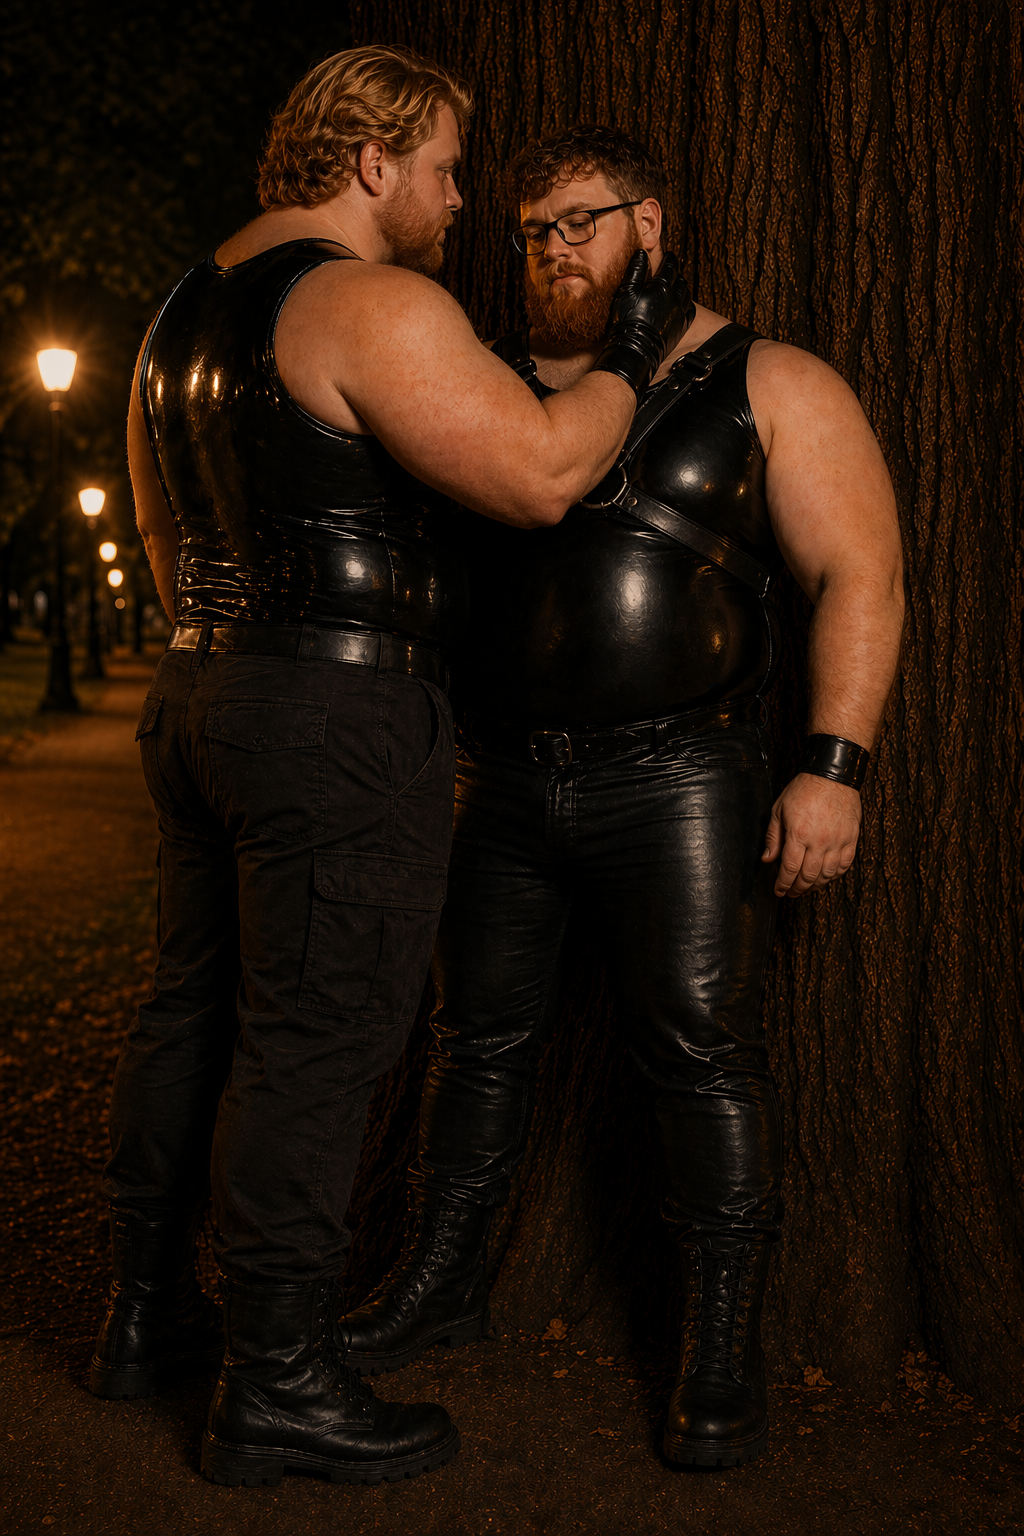
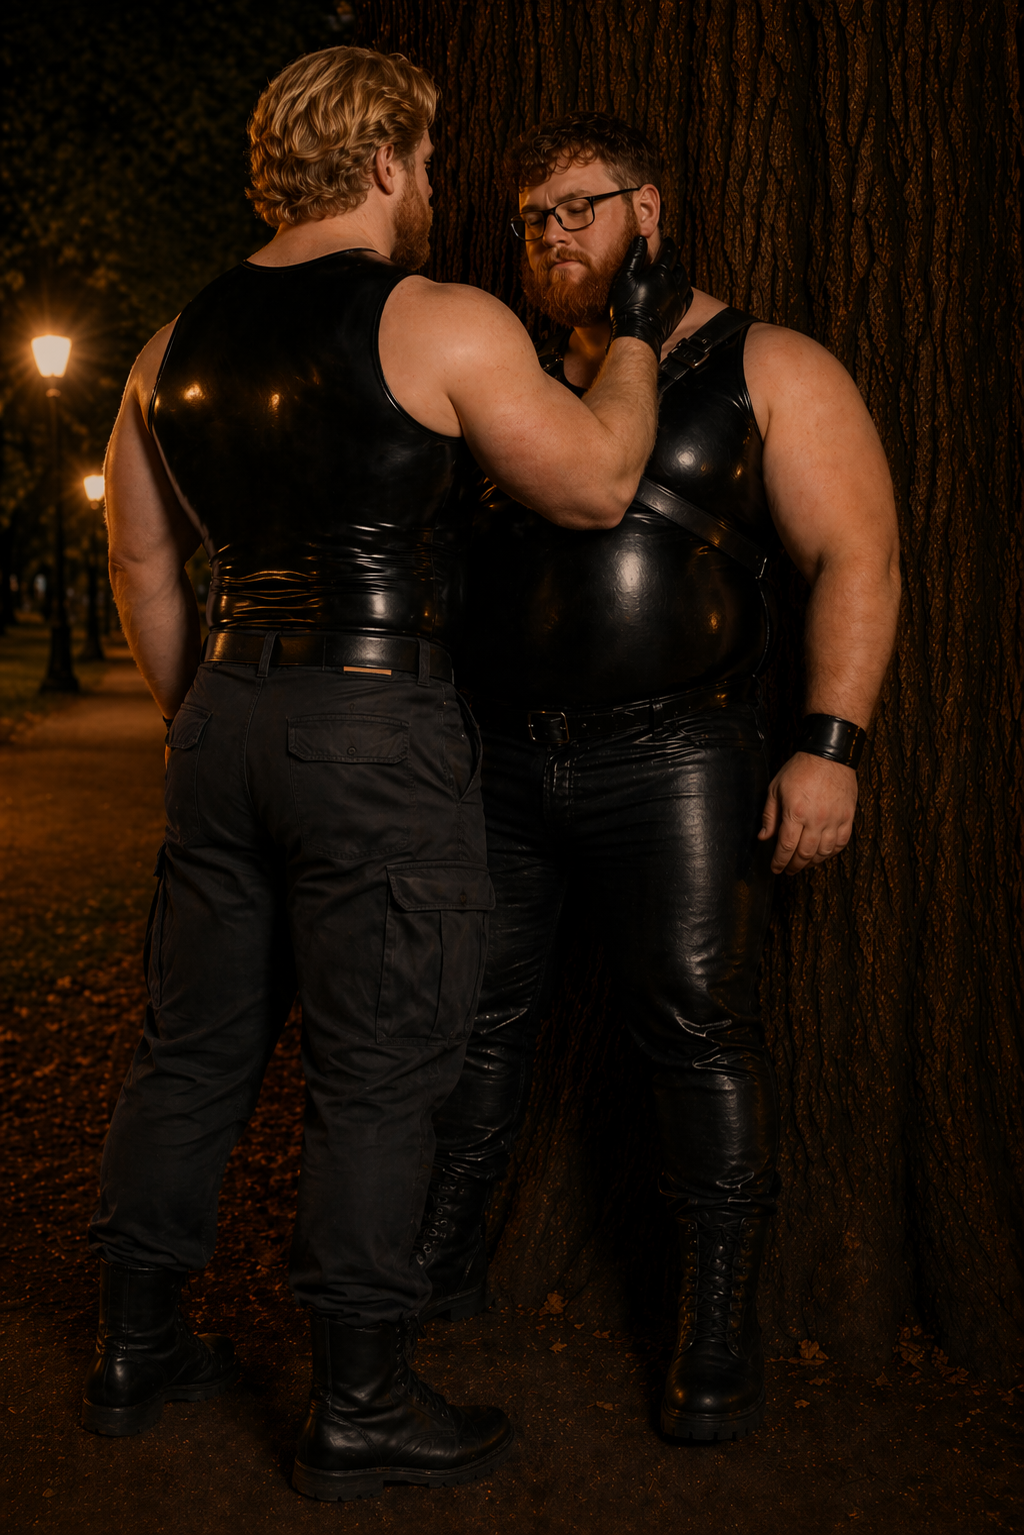
Amended existing images, added remaining images for chapter 14

diff --git a/stories/ch14-tbd.md b/stories/ch14-tbd.md
@@ -281,11 +281,15 @@ A large bearded man, solidly built, the chubby weight he had always carried now 
 
 Nick stepped back half a pace and looked at him.
 
+[![](/website/assets/images/ch14-tbd/015.png)](/website/assets/images/ch14-tbd/015.png)
+
 The pleasure was already rolling up through Nick's body in long warm waves. He breathed through it, slow, and let it settle.
 
 He looked past the tree, down the path, toward the lamps and the bench past the fountain.
 
 He had known the man on the bench was there since he had arrived. He had chosen to let him watch.
+
+[![](/website/assets/images/ch14-tbd/016.png)](/website/assets/images/ch14-tbd/016.png)
 
 He turned his head and looked directly down the path. Directly at the bench.
 
@@ -294,6 +298,8 @@ He held the look for a count longer than a man casually scanning would have held
 Then he walked the other way, the new one falling in behind him, and the trees took them.
 
 ---
+
+[![](/website/assets/images/ch14-tbd/017.png)](/website/assets/images/ch14-tbd/017.png)
 
 Mike did not move.
 
@@ -315,6 +321,8 @@ He took his phone out of the hoodie pocket.
 
 He opened the thread with Andrew. The last message was his own, from six weeks ago — a mid-flight selfie, him and Nick in full suits against an open sky, Mike pulling a face at the camera, Nick laughing beside him. Andrew had sent back three laughing emojis.
 
+[![](/website/assets/images/ch14-tbd/018.png)](/website/assets/images/ch14-tbd/018.png)
+
 Mike looked at it for a moment. Then he typed.
 
 *I need your help. It's Nick.*
@@ -322,3 +330,5 @@ Mike looked at it for a moment. Then he typed.
 He sent it.
 
 He put the phone back in the hoodie pocket. He stood, and he walked back up the path, past the fountain, out of the park.
+
+[![](/website/assets/images/ch14-tbd/019.png)](/website/assets/images/ch14-tbd/019.png)
